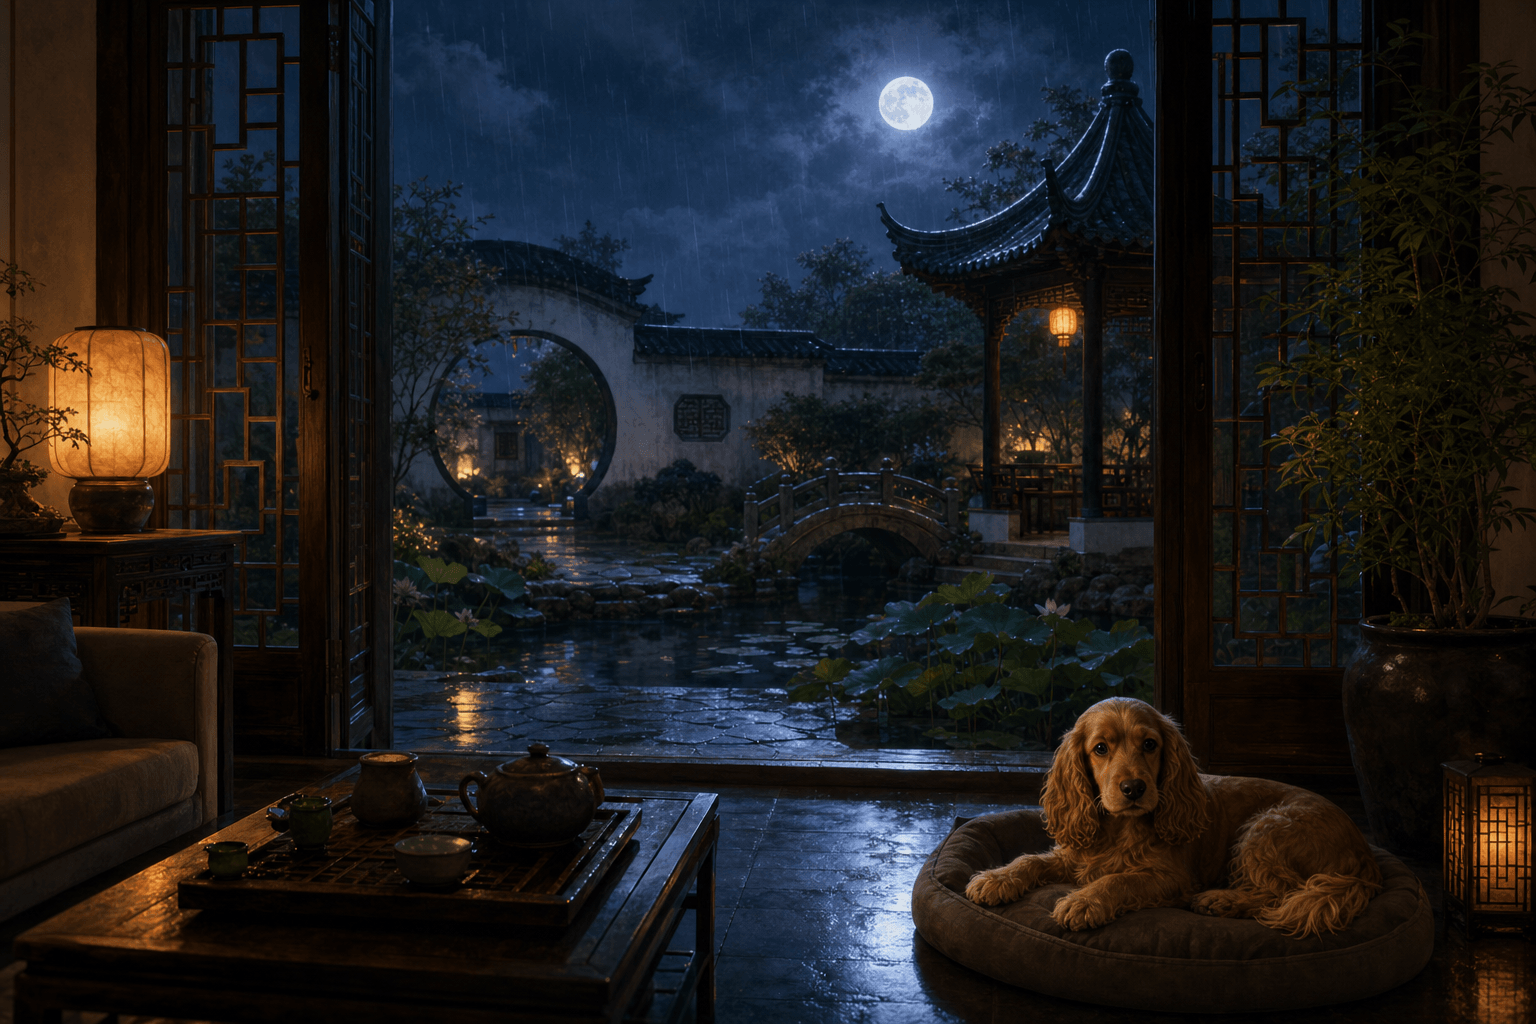
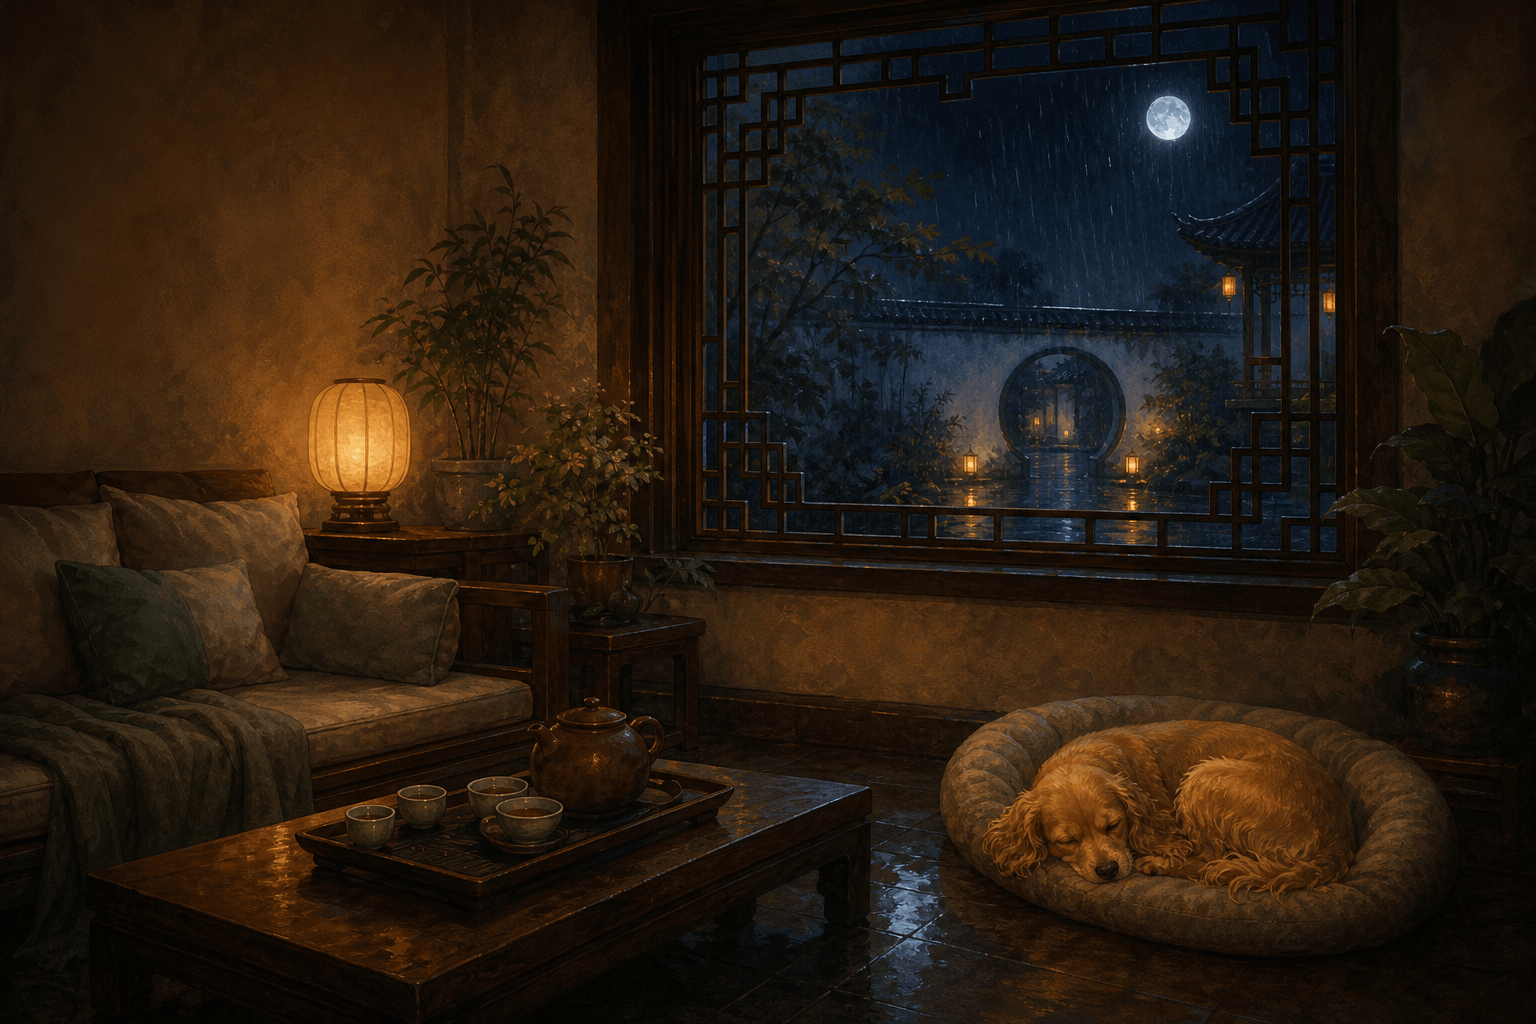
v10

diff --git a/src/content.js b/src/content.js
@@ -7,19 +7,15 @@ export const scenes = [
     puzzlePrompt: "先看哪一个线索？",
     choices: [
       {
-        id: "umbrella-charm",
-        label: "看伞架里的油纸伞",
-        detail: "伞柄内侧刻着一个很小的日期，像是某次一起淋雨回家的晚上。",
-      },
-      {
-        id: "paw-prints",
-        label: "看门垫上的湿爪印",
-        detail: "爪印停在门垫边缘，没有去远处，像是在等你跟上。",
-      },
-      {
         id: "rain-card",
         label: "看木门上的铜环",
         detail: "铜环被雨气润得发亮，轻轻一碰，门后那条路像是更远了一点。",
+      },
+      {
+        id: "umbrella-charm",
+        label: "看伞架里的油纸伞",
+        detail: "伞面还滴着雨，像是摸鱼故意让你多停了一会儿。",
+        isDecoy: true,
       },
     ],
     completionText:
@@ -45,12 +41,8 @@ export const scenes = [
       {
         id: "moyu-bed",
         label: "看摸鱼的小窝",
-        detail: "小窝下面露出一张纸：普通的日子，也想和你一起慢慢过。",
-      },
-      {
-        id: "lamp-direction",
-        label: "看桌边的暖灯",
-        detail: "灯影在墙上连成一条路，指向窗外的庭院。",
+        detail: "摸鱼的小窝被整理得很软，但真正的线索不在这里。",
+        isDecoy: true,
       },
     ],
     completionText:
@@ -59,37 +51,6 @@ export const scenes = [
       "摸鱼趴到自己的小窝边。",
       "摸鱼在茶盏、小窝和暖灯之间慢慢转了一圈。",
       "客厅里可疑的是三件具体物品：茶盏、小窝、暖灯。",
-    ],
-  },
-  {
-    id: "window",
-    eyebrow: "窗边",
-    title: "雨痕与花窗",
-    body: "雨水沿着花窗慢慢滑下。窗内有信封和灯影，窗外能看见庭院的微光。摸鱼在一旁安静等你靠近桌角。",
-    puzzlePrompt: "你先看窗边哪一个物件？",
-    choices: [
-      {
-        id: "paper-note",
-        label: "看桌上的纸笺",
-        detail: "纸笺被雨夜的潮气压得微微卷起，像把一句话藏在灯影下面。",
-      },
-      {
-        id: "window-envelope",
-        label: "看桌上的信封",
-        detail: "信封没有封口，边角被摸鱼蹭得微微翘起，像藏着一句没说完的话。",
-      },
-      {
-        id: "outside-light",
-        label: "看圆门里的灯",
-        detail: "圆门深处有一点灯光，好像在等雨停。",
-      },
-    ],
-    completionText:
-      "信封被雨气压弯了一点，边缘上两个相同的小数挨在一起，像一双并排的爪印。花窗上的雨痕连成顺序，指向庭院和池塘。",
-    hints: [
-      "摸鱼一直盯着桌角。",
-      "摸鱼用爪子碰了碰纸笺和信封，又看向窗外圆门里的灯。",
-      "窗边可点的物件是纸笺、信封和圆门里的灯。",
     ],
   },
   {
@@ -107,12 +68,8 @@ export const scenes = [
       {
         id: "courtyard-bridge",
         label: "看小桥",
-        detail: "桥面被雨水洗得发亮，像把此岸和另一边轻轻连了起来。",
-      },
-      {
-        id: "courtyard-moon",
-        label: "看月亮",
-        detail: "云后的月亮露出一点光，水面也跟着亮了一下。",
+        detail: "桥面被雨水洗得发亮，只是把你带回庭院的静处。",
+        isDecoy: true,
       },
     ],
     completionText:
@@ -135,9 +92,15 @@ export const scenes = [
         label: "看柜上的小木盒",
         detail: "小木盒安静地放在柜上，盒盖边缘露出一点暖色的光。",
       },
+      {
+        id: "bedroom-card",
+        label: "看床边的手写卡片",
+        detail: "卡片上的字像是最后一步的方向，但要打开的不是它。",
+        isDecoy: true,
+      },
     ],
     completionText:
-      "小木盒没有锁孔，只有八个空格。摸鱼把爪子搭在床边那张纸上，像是在说：最后一步，不在雨里，在你手边。",
+      "小木盒没有锁孔，只有八个空格。摸鱼把爪子搭在床边那张纸上，纸角有两个相同的小数，像是在说：最后一步，不在雨里，在你手边。",
     hints: [
       "摸鱼把最后一张卡片放到床边。",
       "摸鱼在小木盒和床边那张纸之间停了很久。",

diff --git a/src/app.js b/src/app.js
@@ -33,7 +33,6 @@ const RAIN_VOLUME = 0.055;
 const sceneImages = {
   entrance: "./assets/rain-garden-entrance.png",
   "living-room": "./assets/rain-garden-living-room.png",
-  window: "./assets/rain-garden-window-room.png",
   "courtyard-pond": "./assets/warm-rainy-jiangnan-garden.png",
   bedroom: "./assets/rain-garden-bedroom.png",
 };
@@ -48,18 +47,11 @@ const PRELOAD_IMAGE_SOURCES = [
 const hotspotPoints = {
   entrance: {
     "umbrella-charm": { x: 76, y: 60 },
-    "paw-prints": { x: 61, y: 82 },
     "rain-card": { x: 58, y: 47 },
   },
   "living-room": {
-    "tea-cups": { x: 27, y: 79 },
-    "moyu-bed": { x: 80, y: 78 },
-    "lamp-direction": { x: 8, y: 52 },
-  },
-  window: {
-    "paper-note": { x: 29, y: 84 },
-    "window-envelope": { x: 39, y: 84 },
-    "outside-light": { x: 25, y: 55 },
+    "tea-cups": { x: 28, y: 78 },
+    "moyu-bed": { x: 77, y: 76 },
   },
   "courtyard-pond": {
     "courtyard-lantern": { x: 17, y: 35 },
@@ -68,6 +60,7 @@ const hotspotPoints = {
   },
   bedroom: {
     "to-main-gift": { x: 84, y: 68 },
+    "bedroom-card": { x: 66, y: 34 },
   },
 };
 
@@ -138,6 +131,12 @@ function renderScene(scene) {
   const feedback = inspectedChoice
     ? `${inspectedChoice.detail} ${scene.completionText}`
     : scene.body;
+  const choiceNote = inspectedChoice?.isDecoy
+    ? "这好像只是摸鱼故意留下的岔路。再看看真正有回应的地方。"
+    : "摸鱼轻轻甩了甩耳朵，像是在催你继续。";
+  const actionMarkup = inspectedChoice && !inspectedChoice.isDecoy
+    ? '<div class="actions"><button class="button" type="button" data-action="continue-scene">继续跟上摸鱼</button></div>'
+    : "";
 
   app.innerHTML = `
     <section class="screen point-click point-click--${scene.id}" data-scene-id="${scene.id}" style="--scene-image: url('${sceneImages[scene.id]}');">
@@ -150,8 +149,8 @@ function renderScene(scene) {
         <div class="dialog-copy">
           <p class="eyebrow">${scene.eyebrow}</p>
           <p id="feedback">${feedback}</p>
-          <p class="moyu">${inspectedChoice ? "摸鱼轻轻甩了甩耳朵，像是在催你继续。" : scene.puzzlePrompt}</p>
-          ${inspectedChoice ? '<div class="actions"><button class="button" type="button" data-action="continue-scene">继续跟上摸鱼</button></div>' : ""}
+          <p class="moyu">${inspectedChoice ? choiceNote : scene.puzzlePrompt}</p>
+          ${actionMarkup}
         </div>
       </article>
     </section>
@@ -198,12 +197,12 @@ function renderEggHotspot(scene) {
       class="scene-hotspot scene-hotspot--egg"
       type="button"
       data-action="open-egg-gift"
-      data-x="54"
-      data-y="74"
-      aria-label="看池边的船票信封"
+      data-x="68"
+      data-y="10"
+      aria-label="看雨后的月亮"
     >
       <span></span>
-      <strong>看池边的船票信封</strong>
+      <strong>看雨后的月亮</strong>
     </button>
   `;
 }

diff --git a/index.html b/index.html
@@ -5,10 +5,10 @@
     <meta name="viewport" content="width=device-width, initial-scale=1" />
     <meta name="theme-color" content="#172425" />
     <title>雨园生日寻礼</title>
-    <link rel="stylesheet" href="./styles.css?v=hotspots-refit-1" />
+    <link rel="stylesheet" href="./styles.css?v=living-room-hotspots-1" />
   </head>
   <body>
     <main id="app" class="app" aria-live="polite"></main>
-    <script type="module" src="./src/app.js?v=hotspots-refit-1"></script>
+    <script type="module" src="./src/app.js?v=living-room-hotspots-1"></script>
   </body>
 </html>

diff --git a/src/state.js b/src/state.js
@@ -1,6 +1,6 @@
-export const SCENE_ORDER = ["entrance", "courtyard-pond", "living-room", "window", "bedroom"];
+export const SCENE_ORDER = ["entrance", "courtyard-pond", "living-room", "bedroom"];
 
-const REPLAY_HIDDEN_CHOICE_SCENES = new Set(["courtyard-pond", "living-room", "window"]);
+const REPLAY_HIDDEN_CHOICE_SCENES = new Set(["courtyard-pond", "living-room"]);
 
 export function createInitialState() {
   return {
